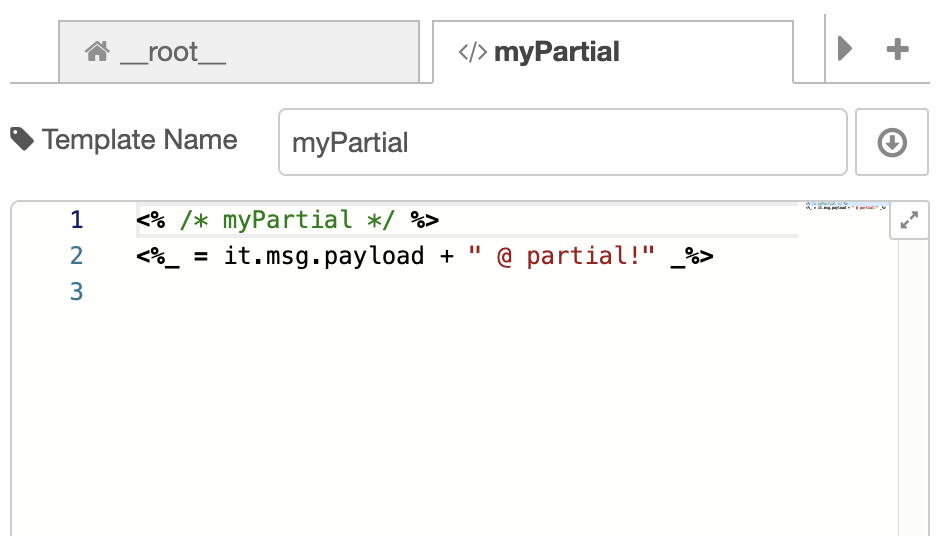
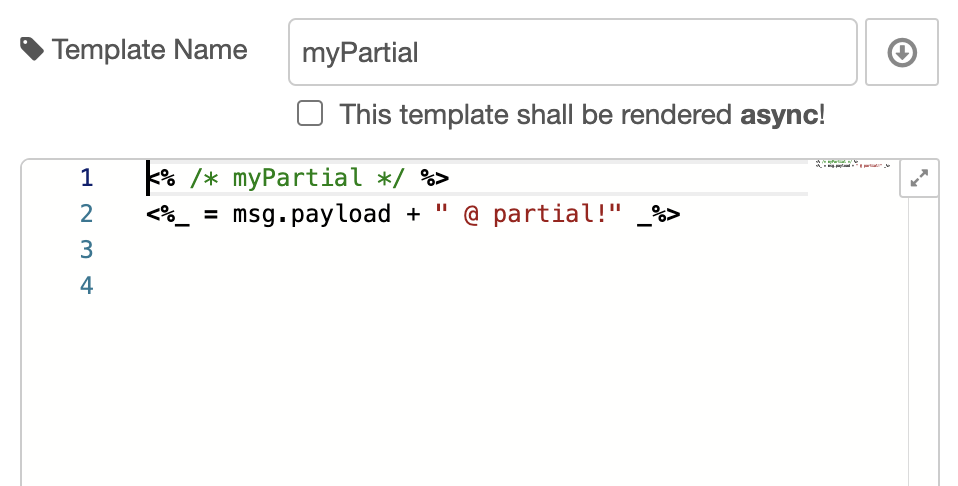
Update for v2

diff --git a/README.md b/README.md
@@ -4,6 +4,15 @@
 
 A [Node-RED](https://www.nodered.org) node to utilize Eta - the lightweight, powerful, pluggable embedded JS template engine.
 
+### Changelog
+#### v2.0.0
+* v2 updates `eta.js` library to version v3.x - that introduced asyn rendering of templates.
+* Accessing data to be used for rendering was simplified, as `msg` was introduced as an alternative for `it`. This allows to follow the Node-RED style way accessing data e.g. as `msg.payload` within templates:
+    * __Be advised that there's an implementation detail that might break your `__root__` template!__: In v1, rendering data used to be provided to the root template as `it.msg`. Due to the mentioned change, it's now just `msg`.  
+
+        An example: Accessing the `payload` property (v1: `it.msg.payload`) is now done simply via `msg.payload`.
+    * To feed data to partials, just forward the data object, e.g. `msg`: `include(template_name, msg)`
+
 ### Inputs
 
 `msg` (object) :  (standard) message object with data to be used for rendering the \_\_root\_\_ template.
@@ -22,7 +31,7 @@ If you've [enabled the use of the Monaco text editor](https://discourse.nodered.
 
 
 The document template (\_\_root\_\_) shall be defined in the configuration options of this node.
-Data provided to the node may be accessed in the template via a variable called `it`.
+Data provided to the node may be accessed in the template via a variable called `msg`.
 
 ```
 <% /*
@@ -32,14 +41,14 @@ Data provided to the node may be accessed in the template via a variable called 
     Check https://eta.js.org for syntax
     support.
 */ -%>
-<% = it.msg.payload + "! Wow!" %>
+<% = msg.payload + "! Wow!" %>
 ```
 
 To use partials, you may define additional templates in the configuration options of this node.
-Using those partials follows the standard Eta scheme; the data (object) again may be accessed - within the partial - via `it`.
+Using those partials follows the standard Eta scheme; the data (object) again may be accessed - within the partial - via `msg`.
 
 ```
-<%~ include(template_name, {msg: it.msg}) %>
+<%~ include(template_name, msg) %>
 ```
 Please be aware that file partials are not supported!
 
